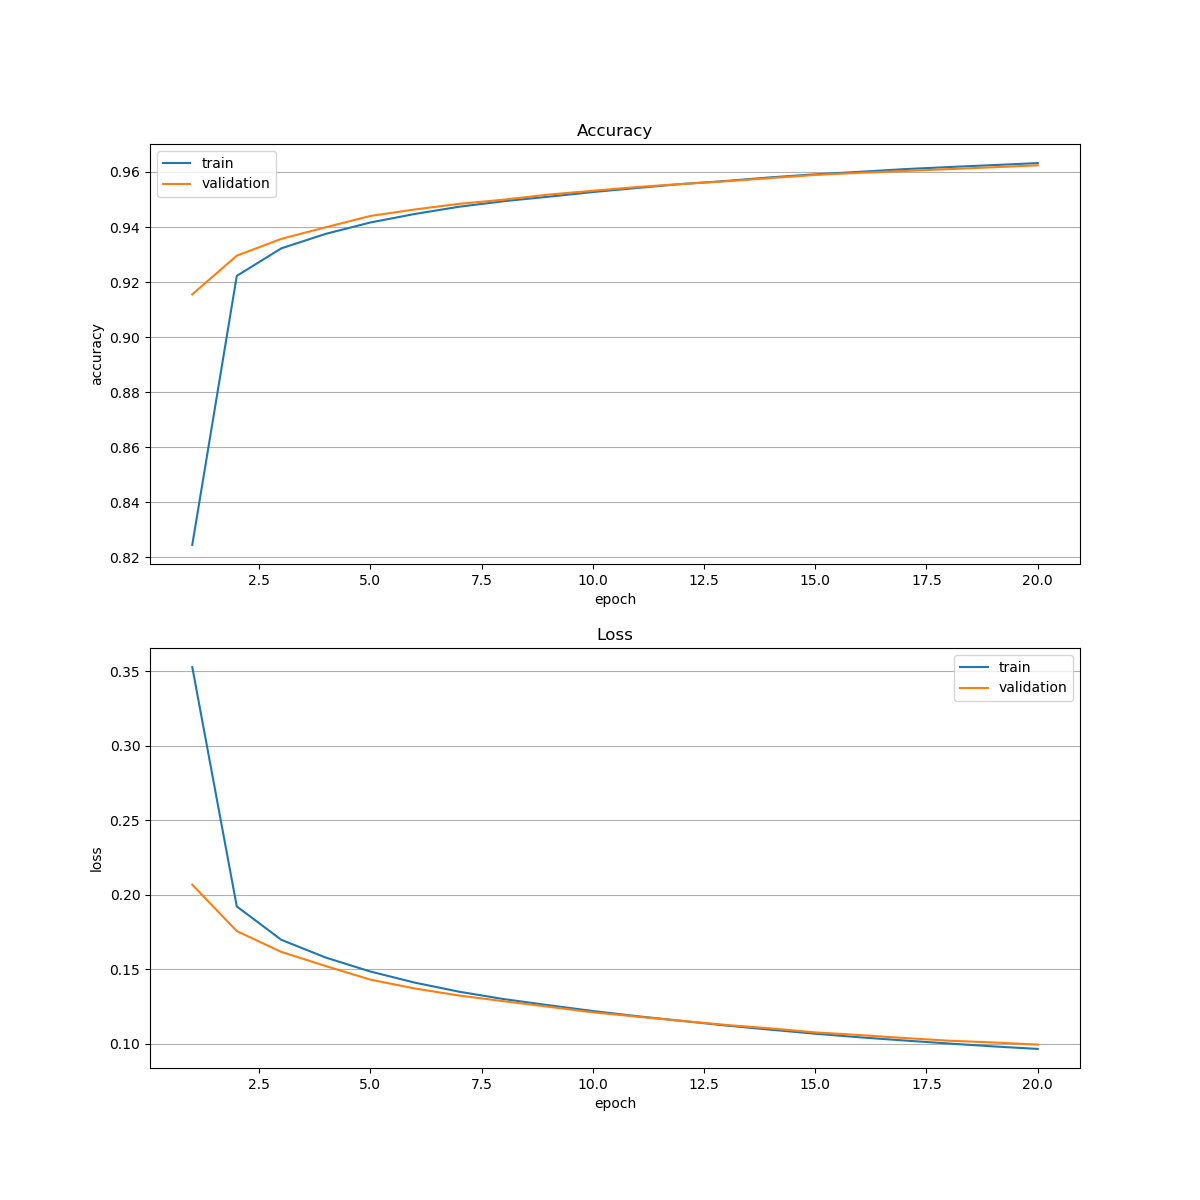
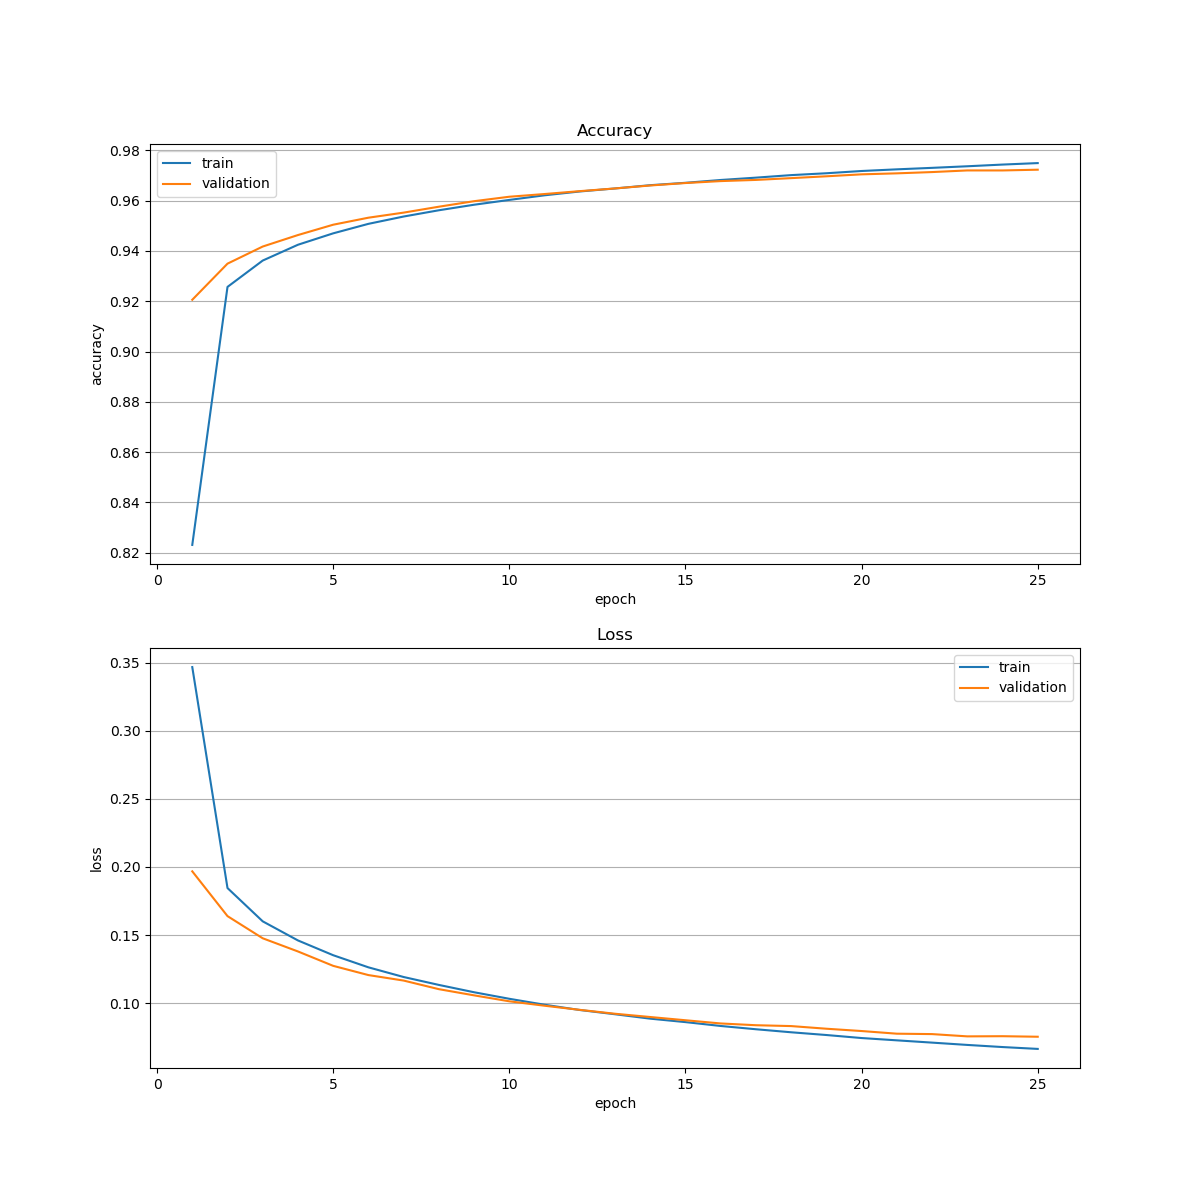
improve test

diff --git a/test.py b/test.py
@@ -9,15 +9,12 @@ from keras.preprocessing.sequence import pad_sequences
 symbols = re.compile(r'，|、|《|》|（|）|？|；|-')
 
 def division(line) -> list:
+    if len(line) < MAX_SEQ_LEN  and '-' not in line:
+        return [line]
     pos = symbols.search(line)
     if pos == None:
-        if len(line) == 0:
-            return []
-        elif len(line) < MAX_SEQ_LEN:
-            return [line]
-        else:
-            pos = math.floor(len(line)/2)
-            return division(line[0:pos]) + division(line[pos:])
+        pos = math.floor(len(line)/2)
+        return division(line[0:pos]) + division(line[pos:])
     else:
         pos = pos.span()[0]
         return division(line[:pos]) + [line[pos]] + division(line[pos+1:])
@@ -63,12 +60,47 @@ def test(testDataDir, model):
                 outstr.append(mark_splite(ele,predicted_y))
         if count <= 5:
             print(' '.join(outstr))
-            count+=1
+            count += 1
         res.write(' '.join(outstr)+"\n")
     res.close()
+
+def test2(testDataDir, model):
+    testData = open(testDataDir, 'r', encoding='utf-8')
+    dict_file = open(VOCAB_PATH,'r', encoding='utf-8')
+    vocab_dict = json.load(dict_file)
+    # inverse_dict = {value:key for key, value in vocab_dict.items()}
+    dict_file.close()
+    res = open("result.txt", 'w', encoding='utf-8')
+    count = 0
+    for line in testData:
+        line = division(line[:-1])
+        #print(line)
+        outstr = []
+        for ele in line:
+            if len(ele) <= 1:
+                outstr.append(ele)
+            else:
+               # print(type(ele))
+                x = np.array([vocab_dict.get(c,0) for c in ele])
+                x = x.reshape(1 ,-1)    
+                # print(x.shape) 
+                x = pad_sequences(x, maxlen=MAX_SEQ_LEN, padding="post", truncating='post')
+                y = model.predict(x).reshape(1,-1)
+                # print(y.shape,y)
+                predicted_y = np.array(y[0][0:len(ele)]).reshape(1,-1)[0]
+                #print('predicted_y:',[float('%.1f'% i) for i in predicted_y])
+                #print("predict_y size",predicted_y.shape)
+                # predicted_y = predicted_y.astype(np.int)
+                outstr.append(mark_splite(ele,predicted_y))
+        if count <= 5:
+            print('  '.join(outstr))
+            count += 1
+        res.write('  '.join(outstr)+"\n")
+    res.close()
+
 
 if __name__ == '__main__':
     model = keras.models.load_model(MODEL_PATH+sys.argv[1]+'.mod')
     model.load_weights(WEIGHT_PATH+sys.argv[1]+'.h5')
-    test(TEST_DATA_PATH,model)
+    test2(TEST_DATA_PATH,model)
     

diff --git a/buildModel.py b/buildModel.py
@@ -25,17 +25,17 @@ def build_model(modelName=None):
 
     model.add(Bidirectional(layer=lstm, merge_mode='ave'))
     # merge_mode means how to connect two vectors
-    model.add(Bidirectional(LSTM(units=2 * HIDDEN_NUM,return_sequences=True, dropout=0.4), merge_mode='ave'))
+    model.add(Bidirectional(LSTM(units=HIDDEN_NUM,return_sequences=True, dropout=0.4), merge_mode='ave'))
     model.add(TimeDistributed(Dense(1, activation='sigmoid')))
 
     model.compile(loss='binary_crossentropy', 
                     optimizer='adam', 
                     metrics=['accuracy'])
 
-    model.save(filepath = MODEL_PATH+modelName)
+    model.save(filepath = MODEL_PATH+modelName+'.mod')
     model.summary()
     try:
-        plot_model(model, to_file=FIGURE_PATH+'network.png')
+        plot_model(model, to_file=FIGURE_PATH+'network.png',show_shapes=True)
     except ImportError:
         pass
     return model,False

diff --git a/train.py b/train.py
@@ -27,7 +27,7 @@ def myplot(history):
     axes[1].set_xlabel(xlabel = 'epoch')
     axes[1].set_ylabel(ylabel = 'loss')
     axes[1].set_title(label = 'Loss')
-    plt.savefig(FIGURE_PATH+'fig1.png')
+    plt.savefig(FIGURE_PATH+'analysis.png')
 
 def train(name=None):
     model,isTrain = build_model(name)

diff --git a/config.py b/config.py
@@ -1,9 +1,9 @@
 BATCH_SIZE = 256
 EPOCH_SIZE = 25
 MAX_SEQ_LEN = 45
-WORD_DIM = 50
+WORD_DIM = 100
 WORD_NUM = 5168
-HIDDEN_NUM = 100
+HIDDEN_NUM = 200
 def setSeqLen(len):
     global MAX_SEQ_LEN
     MAX_SEQ_LEN = len
